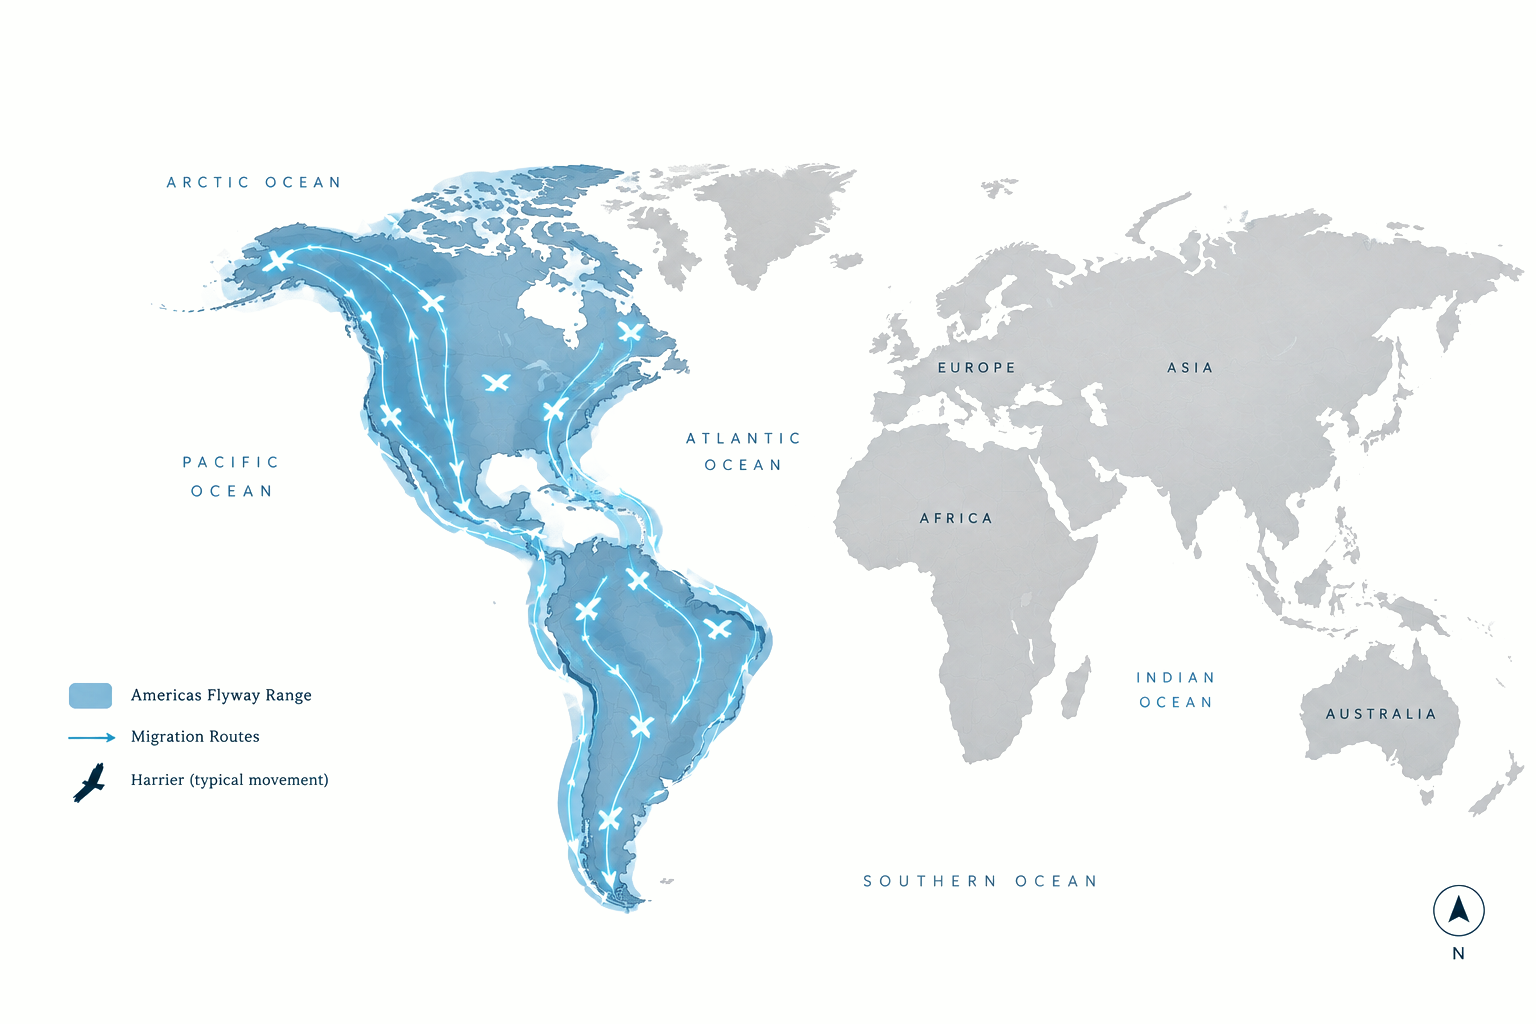
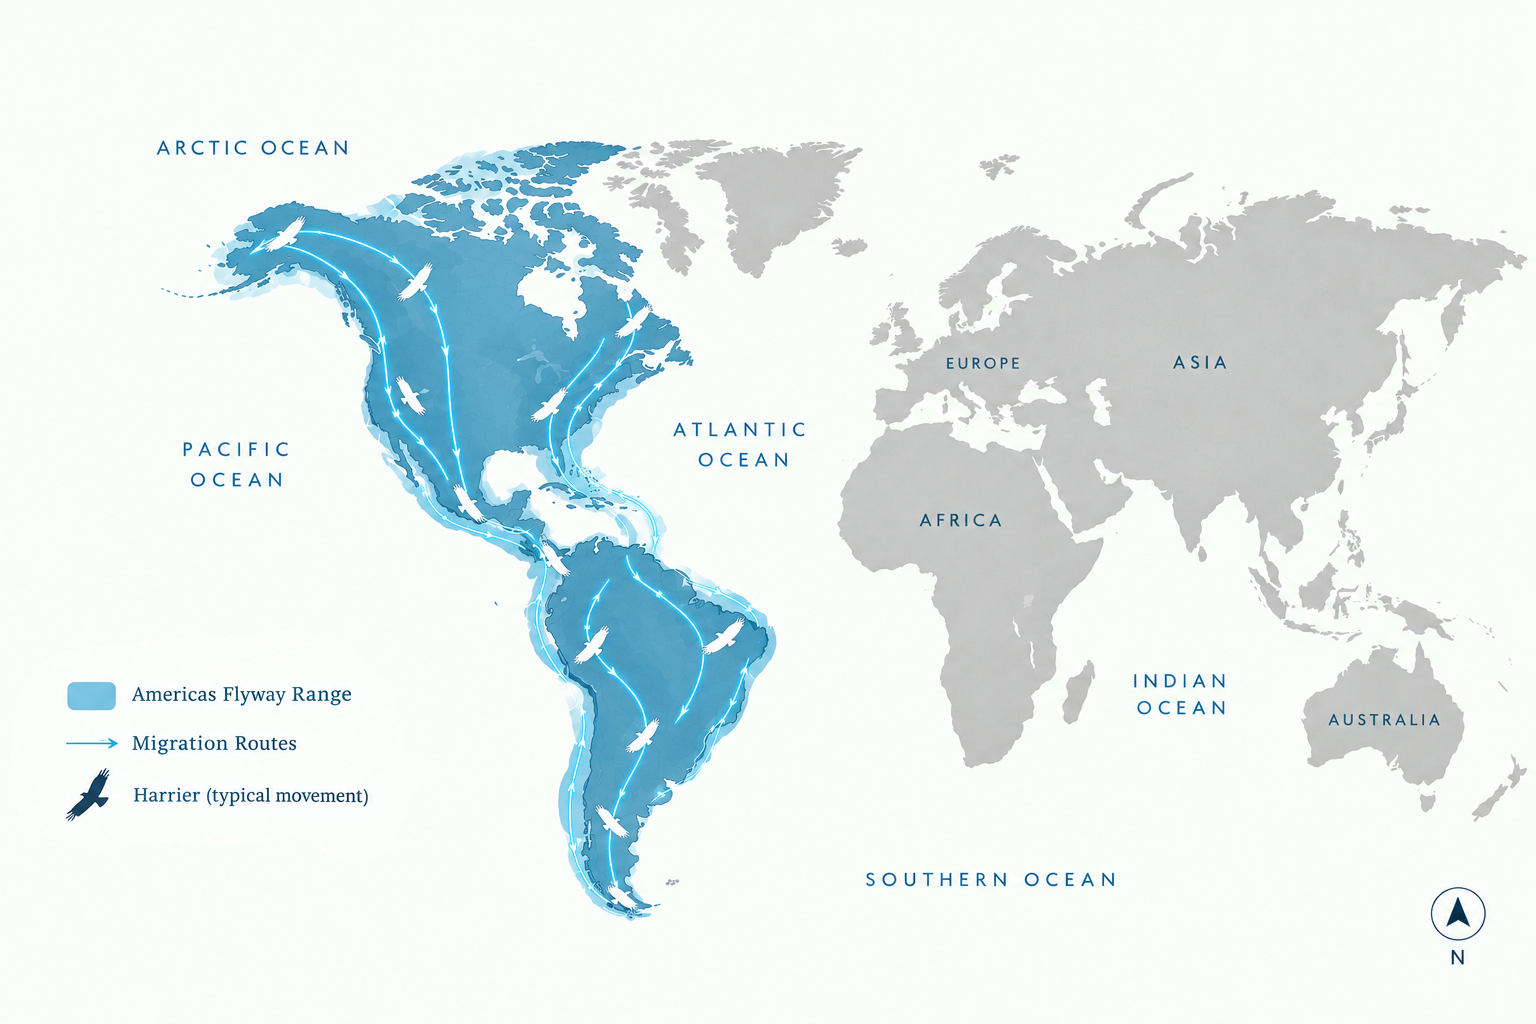
end credits

diff --git a/components/ScrollSection.tsx b/components/ScrollSection.tsx
@@ -7,6 +7,9 @@ import { ScrollTrigger } from 'gsap/ScrollTrigger'
 import { useGSAP } from '@gsap/react'
 
 gsap.registerPlugin(ScrollTrigger)
+if (typeof window !== 'undefined') {
+  ScrollTrigger.clearScrollMemory('manual')
+}
 
 export interface ScrollItem {
   content: ReactNode
@@ -35,35 +38,35 @@ const ScrollSection = ({
   const [sectionInView, setSectionInView] = useState(false)
 
   // Scroll triggers: which slide is active, and whether the section is on screen
-  useGSAP(
-    () => {
-      if (!scroll_items?.length) return
+  // useGSAP(
+  //   () => {
+  //     if (!scroll_items?.length) return
 
-      const sections = gsap.utils.toArray<HTMLElement>('.scroll-text', containerRef.current)
-      sections.forEach((section, index) => {
-        ScrollTrigger.create({
-          trigger: section,
-          start: 'top 50%',
-          end: 'bottom 50%',
-          refreshPriority: -1,
-          onToggle: (self) => {
-            if (self.isActive) setCurrentIndex(index)
-          },
-        })
-      })
+  //     const sections = gsap.utils.toArray<HTMLElement>('.scroll-text', containerRef.current)
+  //     sections.forEach((section, index) => {
+  //       ScrollTrigger.create({
+  //         trigger: section,
+  //         start: 'top 50%',
+  //         end: 'bottom 50%',
+  //         refreshPriority: -1,
+  //         onToggle: (self) => {
+  //           if (self.isActive) setCurrentIndex(index)
+  //         },
+  //       })
+  //     })
 
-      // Section visibility, used to play/pause videos
-      ScrollTrigger.create({
-        trigger: containerRef.current,
-        start: 'top 75%',
-        end: 'bottom 25%',
-        onToggle: (self) => setSectionInView(self.isActive),
-      })
+  //     // Section visibility, used to play/pause videos
+  //     ScrollTrigger.create({
+  //       trigger: containerRef.current,
+  //       start: 'top 75%',
+  //       end: 'bottom 25%',
+  //       onToggle: (self) => setSectionInView(self.isActive),
+  //     })
 
-      requestAnimationFrame(() => ScrollTrigger.refresh())
-    },
-    { scope: containerRef, dependencies: [scroll_items] }
-  )
+  //     requestAnimationFrame(() => ScrollTrigger.refresh())
+  //   },
+  //   { scope: containerRef, dependencies: [scroll_items] }
+  // )
 
   // Show only the active slide's media
   useGSAP(
@@ -74,6 +77,56 @@ const ScrollSection = ({
       gsap.set(layers[currentIndex], { opacity: 1 })
     },
     { scope: containerRef, dependencies: [currentIndex, scroll_items] }
+  )
+
+  useGSAP(
+    () => {
+      if (!scroll_items?.length) return
+
+      const sections = gsap.utils.toArray<HTMLElement>('.scroll-text', containerRef.current)
+
+      const triggers = sections.map((section) =>
+        ScrollTrigger.create({
+          trigger: section,
+          start: 'top 50%',
+          end: 'bottom 50%',
+          refreshPriority: -1,
+          onToggle: () => sync(),
+        })
+      )
+
+      // Derive the active slide from real trigger state, not from a single event
+      function sync() {
+        const active = triggers.findIndex((t) => t.isActive)
+        if (active !== -1) {
+          setCurrentIndex(active)
+          return
+        }
+        // Between triggers / above / below: snap to nearest so we never get stuck
+        const y = window.scrollY + window.innerHeight / 2
+        if (y < triggers[0].start) setCurrentIndex(0)
+        else if (y > triggers[triggers.length - 1].end) setCurrentIndex(triggers.length - 1)
+      }
+
+      const visibility = ScrollTrigger.create({
+        trigger: containerRef.current,
+        start: 'top 75%',
+        end: 'bottom 25%',
+        onToggle: (self) => setSectionInView(self.isActive),
+      })
+
+      // Re-sync after every refresh (fires after scroll restoration, image loads, resizes)
+      const onRefresh = () => {
+        sync()
+        setSectionInView(visibility.isActive)
+      }
+      ScrollTrigger.addEventListener('refresh', onRefresh)
+
+      requestAnimationFrame(() => ScrollTrigger.refresh())
+
+      return () => ScrollTrigger.removeEventListener('refresh', onRefresh)
+    },
+    { scope: containerRef, dependencies: [scroll_items] }
   )
 
   if (!scroll_items?.length) return null
@@ -94,8 +147,8 @@ const ScrollSection = ({
             return (
               <div
                 key={i}
-                className={`story-image absolute inset-0 ${isActive ? '' : 'pointer-events-none'}`}
-                style={{ opacity: i === 0 ? 1 : 0 }}
+                className={`story-image absolute inset-0 transition-opacity duration-300 ${isActive ? 'opacity-100' : 'pointer-events-none opacity-0'
+                  }`}
                 aria-hidden={!isActive}
               >
                 {item.media_type === 'image' &&

diff --git a/app/page.tsx b/app/page.tsx
@@ -2,7 +2,7 @@
 import AddionalInfo from '@/components/AddionalInfo';
 import AnimatedStages from '@/components/AnimatedStages';
 import Cafe_in_Grassland from '@/components/Cafe_in_Grassland';
-import { finding_roost, responsive, scroll_day_researcher, scroll_encounter, threats_img } from '@/components/Constants';
+import { EndCreditsGroups, finding_roost, responsive, scroll_day_researcher, scroll_encounter, threats_img } from '@/components/Constants';
 import FeatureImage from '@/components/FeatureImage';
 
 import Flashback from '@/components/Flashback';
@@ -38,9 +38,11 @@ import ScrollMapx2 from '@/components/ScrollMapx2';
 import ScrollMapx3 from '@/components/ScrollMapx3';
 import ScrollSectionx3 from '@/components/ScrollSectionx3';
 import PredatorShowcase from '@/components/PredatorShowcase';
+import EndCredits from '@/components/EndCreadits';
 gsap.registerPlugin(ScrollTrigger)
 
 const page = () => {
+  const year=new Date().getFullYear()
 
 
   const containerRef_roost = useRef<HTMLDivElement>(null)
@@ -57,7 +59,7 @@ const page = () => {
   }, [])
 
 
-  
+
   return (
     <main className='w-full flex flex-col bg-[#f5f0e8]'>
 
@@ -88,7 +90,7 @@ const page = () => {
             <b>Globe trotters</b>
             <ul className="list-disc pl-6">
               <li>
-                Can you imagine flying nonstop for 9 days without food? The Bar-tailed godwit flies 7000 miles non stop, day and night, across the Pacific from Alaska to New Zealand 
+                Can you imagine flying nonstop for 9 days without food? The Bar-tailed godwit flies 7000 miles non stop, day and night, across the Pacific from Alaska to New Zealand
               </li>
 
               <li>
@@ -131,7 +133,7 @@ const page = () => {
           content={<div className='flex flex-col gap-5'>
             <div>
 
-            The modern understanding of bird migration began in the 1890s when a Danish man, Hans Christian Cornelius Mortensen, fastened a ring with a number and address to a bird's leg. When the birds ringed in one part of the continent were picked up in another, we realised for the first time that birds fly long distances and overturn bizarre theories that swallows sank into the bottom of the lakes during winter. It also helped establish flyways, as paths used by migrating birds to traverse to their wintering grounds
+              The modern understanding of bird migration began in the 1890s when a Danish man, Hans Christian Cornelius Mortensen, fastened a ring with a number and address to a bird's leg. When the birds ringed in one part of the continent were picked up in another, we realised for the first time that birds fly long distances and overturn bizarre theories that swallows sank into the bottom of the lakes during winter. It also helped establish flyways, as paths used by migrating birds to traverse to their wintering grounds
 
             </div>
 
@@ -152,8 +154,8 @@ const page = () => {
 
       <div className='mt-10'>
         <What_does_it_tells />
-      </div> 
-      
+      </div>
+
       {/* <div className='mt-10'>
         <Predator />
       </div> */}
@@ -165,7 +167,7 @@ const page = () => {
         <How_many_roost />
       </div> */}
 
-     
+
 
 
 
@@ -181,10 +183,10 @@ const page = () => {
 
       <div className='mt-10'>
         <div className={`${responsive}`}>
-            <Title
-                topTitle=""
-                mainTitle="Threats"
-            />
+          <Title
+            topTitle=""
+            mainTitle="Threats"
+          />
 
         </div>
         <ScrollSection2 img_fill={true} scroll_items={threats_img} />
@@ -193,14 +195,14 @@ const page = () => {
       <div className='mt-10'>
         <What_happens_home_not_exist />
       </div>
-      
-      
+
+
 
       <div className='mt-10'>
         <Resources />
       </div>
 
-      
+
 
 
 
@@ -222,6 +224,16 @@ const page = () => {
       <Title customClass={`${responsive} px-4 mt-10`}
         topTitle='' mainTitle="Stages" />
       <AnimatedStages /> */}
+
+      <EndCredits
+        groups={EndCreditsGroups}
+        footnote={`© ${year} ATREE. All rights reserved.`}
+      />
+      <div className='w-full p-4 bg-white flex items-center justify-center'>
+        <h1 className='text-amber-700 text-xs'>Contact us on <a  href="mailto:communications@atree.org" className="underline hover:text-blue-600 transition-colors"
+        > communications@atree.org</a></h1>
+
+      </div>
 
     </main>
   )

diff --git a/components/EndCreadits.tsx b/components/EndCreadits.tsx
@@ -1,0 +1,86 @@
+'use client'
+
+import { useEffect, useRef, useState } from 'react'
+import Title from './Title'
+
+export interface CreditGroup {
+  title: string
+  names: string[]
+}
+
+interface EndCreditsProps {
+  heading?: string
+  groups: CreditGroup[]
+  footnote?: string
+}
+
+const EndCredits = ({ heading = 'Credits', groups, footnote }: EndCreditsProps) => {
+  const containerRef = useRef<HTMLElement>(null)
+  const [visible, setVisible] = useState(false)
+
+  useEffect(() => {
+    const el = containerRef.current
+    if (!el) return
+
+    const observer = new IntersectionObserver(
+      ([entry]) => {
+        if (entry.isIntersecting) {
+          setVisible(true)
+          observer.disconnect() // animate only once
+        }
+      },
+      { threshold: 0.15 }
+    )
+
+    observer.observe(el)
+    return () => observer.disconnect()
+  }, [])
+
+  const item = `transition-all duration-700 ease-out motion-reduce:transition-none ${
+    visible ? 'translate-y-0 opacity-100' : 'translate-y-8 opacity-0'
+  }`
+
+  return (
+    <section ref={containerRef} className="w-full bg-[#f5f0e8] px-5 py-16 md:pt-24">
+      <div className="mx-auto max-w-5xl">
+        <div className='my-5'> 
+            <Title  mainTitle='Credits '/>
+
+        </div>
+       
+
+        <div className="grid gap-8 text-center sm:grid-cols-2 sm:text-left lg:grid-cols-3 lg:gap-12">
+          {groups.map((group, i) => (
+            <div
+              key={group.title}
+              className={item}
+              style={{ transitionDelay: visible ? `${(i + 1) * 100}ms` : '0ms' }}
+            >
+              <h3 className="mb-3 text-xs font-semibold uppercase tracking-widest text-neutral-500">
+                {group.title}
+              </h3>
+              <ul className="space-y-1 text-base md:text-lg">
+                {group.names.map((name) => (
+                  <li key={name}>{name}</li>
+                ))}
+              </ul>
+            </div>
+          ))}
+        </div>
+
+        {footnote && (
+          <p
+            className={`${item} mt-12 text-center text-xs text-neutral-500 md:mt-16`}
+            style={{ transitionDelay: visible ? `${(groups.length + 1) * 100}ms` : '0ms' }}
+          >
+            {footnote}
+          </p>
+        )}
+      </div>
+
+      
+    </section>
+  )
+}
+
+export default EndCredits

diff --git a/components/Constants.tsx b/components/Constants.tsx
@@ -7,7 +7,7 @@ export const scroll_encounter = [
         content: (
             <div className="flex flex-col gap-5 pt-10 xl:p-0">
                 <Title
-                    
+
                     mainTitle="The day we found Gangai"
                 />
 
@@ -779,4 +779,14 @@ export const predators_show = [
         illustration:
             "https://atree-communication.s3.amazonaws.com/storymap-harrier/photo/predators/Predators6.png",
     },
+]
+
+export const EndCreditsGroups = [
+    { title: 'Research', names: ['T. Ganesh ','Arjun Kannan',' Prashanth M. B.'] },
+    { title: 'Content', names: ['Maithreyi M. R.','Jaya Peter',] },
+     { title: 'Web Design & Development', names: ['Sreekuttan V. N.'] },
+    { title: 'Photo & Video', names: ['Vipul Ramanuj','Jayshree Borgohain','Pixabay'] },    
+    { title: 'Illustrations', names: ['Ketaki Watve',''] },    
+   
+    { title: 'Maps', names: ['Esri ArcGIS'] },
 ]
